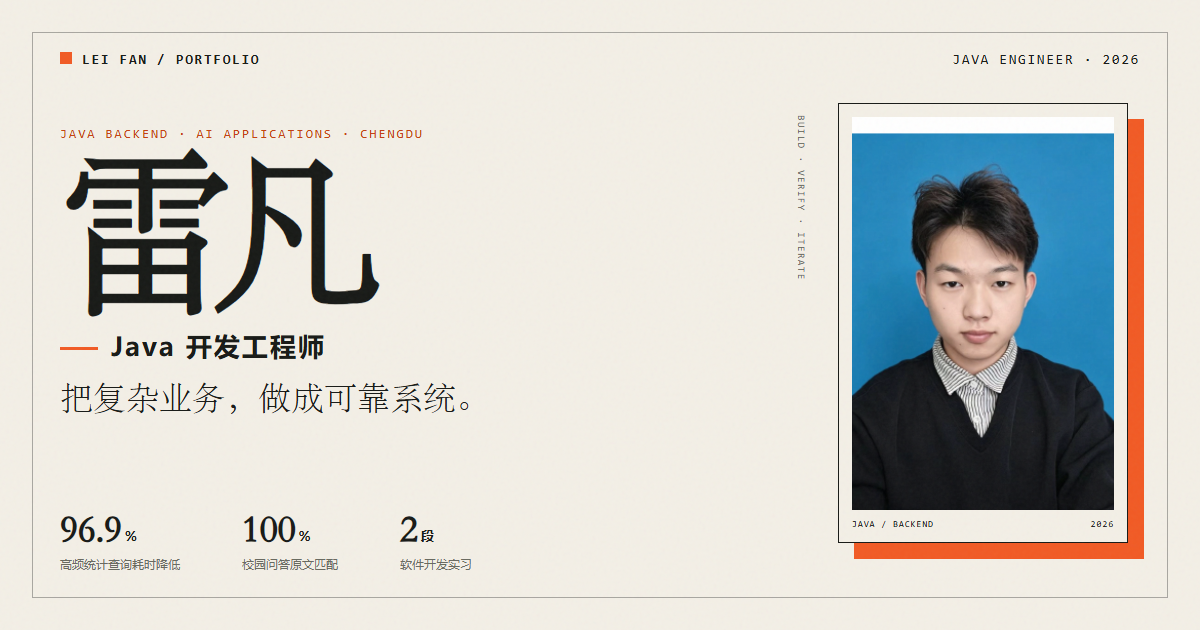
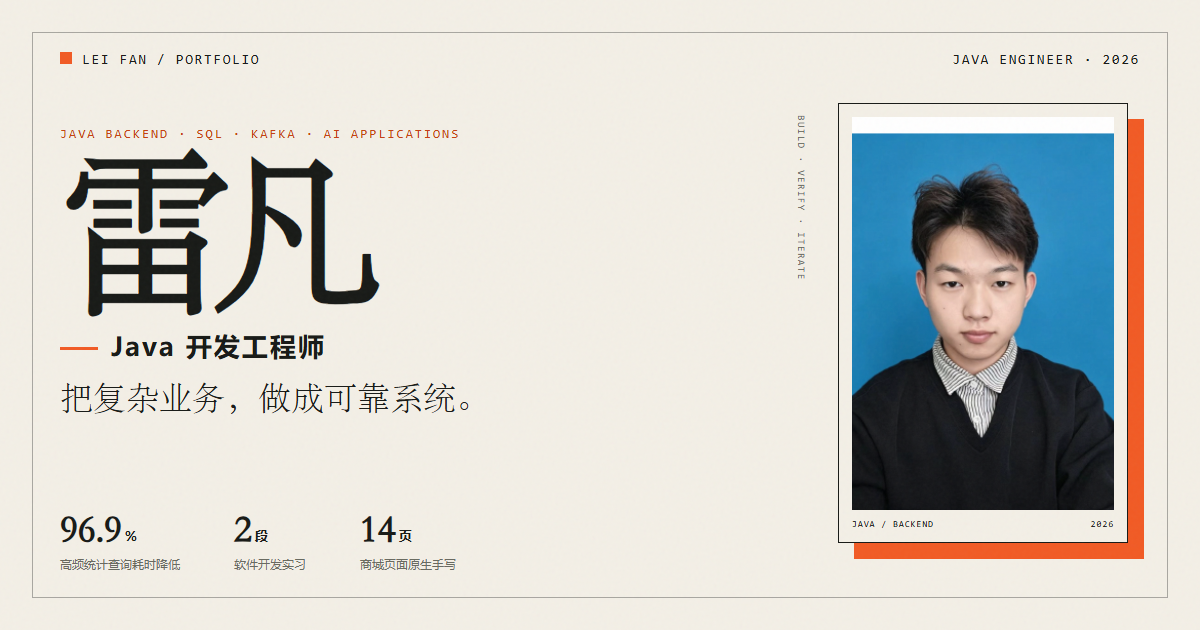
Sync portfolio with updated resume

diff --git a/index.html b/index.html
@@ -4,7 +4,7 @@
   <meta charset="utf-8">
   <meta name="viewport" content="width=device-width, initial-scale=1">
   <title>雷凡｜Java 开发工程师 · 后端与 AI 应用</title>
-  <meta name="description" content="雷凡，Java 开发工程师，专注 Spring Boot 后端、Redis 缓存优化与 AI 应用落地。查看工作经历、全栈项目与技术栈。">
+  <meta name="description" content="雷凡，Java 开发工程师，专注 Spring Boot 后端、SQL 与索引优化、Redis 缓存、Kafka 异步解耦与 AI 应用落地。查看工作经历、全栈项目与技术栈。">
   <meta name="author" content="雷凡">
   <meta name="robots" content="index, follow, max-image-preview:large">
   <meta name="theme-color" content="#f3efe6">
@@ -51,6 +51,8 @@
       "PostgreSQL",
       "Redis",
       "Kafka",
+      "Spring AI",
+      "MyBatis",
       "Docker",
       "AI Function Calling",
       "RAG"
@@ -95,8 +97,8 @@
             <dd>高频统计查询耗时降低</dd>
           </div>
           <div>
-            <dt>100<small>%</small></dt>
-            <dd>校园问答原文匹配</dd>
+            <dt>14<small>页</small></dt>
+            <dd>商城页面原生手写</dd>
           </div>
           <div>
             <dt>2<small>段</small></dt>
@@ -123,8 +125,8 @@
 
     <div class="ticker" aria-hidden="true">
       <div class="ticker-track">
-        <span>SPRING BOOT</span><span>REDIS</span><span>SQL OPTIMIZATION</span><span>AI FUNCTION CALLING</span><span>SSE</span><span>FULL-STACK</span>
-        <span>SPRING BOOT</span><span>REDIS</span><span>SQL OPTIMIZATION</span><span>AI FUNCTION CALLING</span><span>SSE</span><span>FULL-STACK</span>
+        <span>SPRING BOOT</span><span>REDIS</span><span>SQL OPTIMIZATION</span><span>KAFKA</span><span>SPRING AI</span><span>FULL-STACK</span>
+        <span>SPRING BOOT</span><span>REDIS</span><span>SQL OPTIMIZATION</span><span>KAFKA</span><span>SPRING AI</span><span>FULL-STACK</span>
       </div>
     </div>
 
@@ -201,9 +203,10 @@
                 <li>独立设计 IOP 触客数据报表，实现四级地域下钻分析，替代各地市依赖 Excel 统计的低效模式。</li>
                 <li>实现十余项业务口径的 SQL 计算逻辑，处理“可外呼数据量 = 总客户量 − 四通道占用量并集”的多集合去重运算。</li>
                 <li>完成标题模糊检索、分页倒序查询与评价聚合统计，消除手工计算错位与口径不一致的问题；检索响应满足日均数千次实时查询。</li>
+                <li>针对接口查询慢的问题优化核心业务表索引与 SQL 执行计划，减少数据库磁盘 IO；同时引入 Kafka 异步解耦非实时业务，降低接口同步耗时并提升吞吐能力。</li>
               </ul>
               <div class="tag-row" aria-label="使用技术">
-                <span>SQL</span><span>数据报表</span><span>模糊检索</span><span>聚合统计</span>
+                <span>SQL</span><span>索引优化</span><span>Kafka</span><span>异步解耦</span>
               </div>
             </div>
           </article>
@@ -224,11 +227,11 @@
               </div>
               <ul class="detail-list">
                 <li>独立开发智慧监管车辆通行系统功能，完成车辆离监确认、照片上传及影像资料关联等业务模块，提升车辆通行信息的完整性与可追溯性。</li>
-                <li>参与优化 Redis 缓存及统计接口，改善高频统计数据读取效率，降低数据库查询压力，<strong>耗时降低约 96.9%</strong>。</li>
+                <li>参与优化 Redis 缓存并设计统计索引，改善高频统计数据读取效率，降低数据库查询压力，<strong>查询耗时降低约 96.9%</strong>。</li>
                 <li>参与设备下发异常排查，梳理指令、回执与任务状态的关联逻辑，完善执行结果反馈，方便运维识别失败任务并定位问题。</li>
               </ul>
               <div class="tag-row" aria-label="使用技术">
-                <span>Redis</span><span>统计接口</span><span>业务建模</span><span>异常排查</span>
+                <span>Redis</span><span>索引设计</span><span>统计接口</span><span>异常排查</span>
               </div>
             </div>
           </article>
@@ -240,9 +243,9 @@
       <div class="section-heading section-heading-row reveal">
         <div>
           <p class="section-index">03 / 项目</p>
-          <h2 id="projects-title">两个完整系统，<br>两种工程练习。</h2>
+          <h2 id="projects-title">一条完整交易链路，<br>一套 AI 工具调用实践。</h2>
         </div>
-        <p class="section-aside">从交易链路的一致性，到 AI 对话的可控性与响应速度。</p>
+        <p class="section-aside">从订单、库存与缓存的一致性，到知识检索、工具调用和会话稳定性。</p>
       </div>
 
       <article class="project-card reveal">
@@ -261,119 +264,50 @@
 
             <div class="project-highlights">
               <div>
-                <span class="highlight-label">AI 链路</span>
-                <h4>零 SDK 依赖的 Function Calling</h4>
-                <p>使用 Java 原生 HttpURLConnection 手写 400+ 行 JSON 解析逻辑，完成“模型决策工具选择 → 后端执行真实数据查询 → 结果注入上下文 → 二次生成回复”的完整闭环。</p>
-              </div>
-              <div>
-                <span class="highlight-label">知识注入</span>
-                <h4>知识库 + 角色人格双层 Prompt</h4>
-                <p>校园问题自动检索原文段落，将通用模型不足 30% 的原文匹配率提升至 100%，单轮回复长度缩短约 60%。</p>
-              </div>
-              <div>
                 <span class="highlight-label">交易一致性</span>
-                <h4>7 步原子结算流程</h4>
-                <p>基于 Spring @Transactional 封装购物车校验、库存检查、BigDecimal 计价、订单号生成、主表写入、订单项批量落库与清空购物车；配合 Redis + 唯一请求 ID 实现幂等，库存乐观锁规避超卖。</p>
+                <h4>结算幂等 + 原子库存扣减</h4>
+                <p>针对重复提交与并发超卖风险，设计 requestId + 数据库唯一索引的结算幂等方案，并通过带库存条件的原子 SQL 扣减库存；结合 Spring 事务保证订单、库存、订单明细与购物车一致，取消订单自动回补库存。</p>
               </div>
               <div>
-                <span class="highlight-label">安全边界</span>
-                <h4>Token 双模式鉴权</h4>
-                <p>自定义 LoginInterceptor 区分 AJAX 与页面请求，分别返回 JSON 401 或重定向登录页；白名单 API 从 20 余个精简至 5 个，攻击面缩减约 75%。</p>
-              </div>
-            </div>
-          </div>
-
-          <aside class="project-side">
-            <div class="project-stat">
-              <strong>100<small>%</small></strong>
-              <span>校园问答原文匹配</span>
-            </div>
-            <div class="project-stat">
-              <strong>−60<small>%</small></strong>
-              <span>单轮回复长度</span>
-            </div>
-            <div class="project-stat">
-              <strong>7<small>步</small></strong>
-              <span>事务内原子结算</span>
-            </div>
-
-            <div class="flow-card">
-              <p class="flow-title">AI FUNCTION CALLING</p>
-              <ol class="flow-list">
-                <li>模型决策</li>
-                <li>工具调用</li>
-                <li>真实数据查询</li>
-                <li>上下文注入</li>
-                <li>二次生成回复</li>
-              </ol>
-            </div>
-          </aside>
-        </div>
-
-        <footer class="project-footer">
-          <div class="tag-row" aria-label="技术栈">
-            <span>Spring Boot</span><span>MyBatis-Plus</span><span>MySQL</span><span>Redis</span><span>DeepSeek API</span><span>Nginx</span><span>Vercel</span>
-          </div>
-          <span class="project-type">FULL-STACK / COMMERCE</span>
-        </footer>
-      </article>
-
-      <article class="project-card project-card-alt reveal">
-        <header class="project-header">
-          <div class="project-number">02</div>
-          <div class="project-title">
-            <h3>智慧校园服务</h3>
-            <p>校园生活服务系统 · 全栈开发</p>
-          </div>
-          <time datetime="2024-05">2024.05 — 2025.03</time>
-        </header>
-
-        <div class="project-grid">
-          <div class="project-content">
-            <p class="project-lead">独立设计并开发的校园服务系统，包含用户端小程序、商家管理后台，实现下单、支付、订单流转、配送及 AI 对话、AI 查询在内的完整校园生活服务。</p>
-
-            <div class="project-highlights">
-              <div>
-                <span class="highlight-label">知识问答</span>
-                <h4>RAG 检索增强链路</h4>
-                <p>针对工作室私域非结构化文档，将私域知识与模型推理结合，降低幻觉并提升问答准确性。</p>
+                <span class="highlight-label">缓存与查询</span>
+                <h4>Redis Cache-Aside + 批量查询</h4>
+                <p>高频商品详情引入 Redis Cache-Aside，采用 30～35 分钟随机 TTL，并在商品更新、删除及上下架后主动失效；购物车和订单明细改为批量查询，补充状态分类与用户订单时间组合索引，缓存不可用时自动降级查库。</p>
               </div>
               <div>
-                <span class="highlight-label">实时查询</span>
-                <h4>@Tool 驱动的动态数据访问</h4>
-                <p>将项目详情、订单信息、配送状态封装为工具函数，让模型按意图自动调用，实现“自然语言 → 实时查库”，弥补 RAG 无法覆盖动态结构化数据的问题。</p>
+                <span class="highlight-label">知识增强</span>
+                <h4>RAG + Function Calling 双通路</h4>
+                <p>针对工作室私域非结构化文档构建 RAG 检索增强链路；同时通过 @Tool 将项目详情、订单信息和配送状态封装为工具函数，由模型按意图实时查库，补足 RAG 对动态结构化数据覆盖不足的问题。</p>
               </div>
               <div>
-                <span class="highlight-label">会话与稳定性</span>
+                <span class="highlight-label">会话稳定性</span>
                 <h4>Redis 记忆 + 用户级限流</h4>
-                <p>通过 RedisChatMemory 持久化每用户多轮对话上下文，解决服务重启或多实例部署下的记忆丢失；结合用户维度滑动窗口限流，保护 API Key 并保障高并发稳定性。</p>
-              </div>
-              <div>
-                <span class="highlight-label">交互体验</span>
-                <h4>SSE 流式响应</h4>
-                <p>对话接口采用 SSE 输出，将首字等待从秒级降至毫秒级，提升长回答场景下的交互体验。</p>
+                <p>基于 Redis 持久化每用户多轮对话上下文，解决服务重启或多实例部署下的记忆丢失问题；结合用户维度滑动窗口限流，防止 API Key 被恶意消耗，保障高并发下的响应稳定性。</p>
               </div>
             </div>
           </div>
 
           <aside class="project-side">
             <div class="project-stat">
-              <strong>毫秒级</strong>
-              <span>对话首字等待</span>
+              <strong>幂等</strong>
+              <span>requestId + 唯一索引</span>
             </div>
             <div class="project-stat">
-              <strong>3<small>端</small></strong>
-              <span>用户端 / 商家端 / 服务端</span>
+              <strong>原子</strong>
+              <span>库存条件扣减</span>
+            </div>
+            <div class="project-stat">
+              <strong>双通路</strong>
+              <span>RAG + Tool Calling</span>
             </div>
 
             <div class="flow-card">
-              <p class="flow-title">RAG + TOOL CALLING</p>
+              <p class="flow-title">RAG + FUNCTION CALLING</p>
               <ol class="flow-list">
                 <li>自然语言输入</li>
                 <li>意图识别</li>
                 <li>知识检索 / 工具调度</li>
                 <li>实时查询</li>
-                <li>SSE 流式回复</li>
+                <li>生成回答</li>
               </ol>
             </div>
           </aside>
@@ -381,11 +315,12 @@
 
         <footer class="project-footer">
           <div class="tag-row" aria-label="技术栈">
-            <span>Spring Boot</span><span>Spring AI</span><span>MySQL</span><span>Redis</span><span>DeepSeek</span><span>SSE</span><span>JWT</span><span>Vue 3</span><span>UniApp</span>
+            <span>Spring Boot</span><span>Spring AI</span><span>MyBatis-Plus</span><span>MySQL</span><span>Redis</span><span>DeepSeek API</span><span>Nginx</span><span>Vercel</span>
           </div>
-          <span class="project-type">FULL-STACK / AI</span>
+          <span class="project-type">FULL-STACK / COMMERCE</span>
         </footer>
       </article>
+
     </section>
 
     <section class="section section-tinted" id="skills" aria-labelledby="skills-title">
